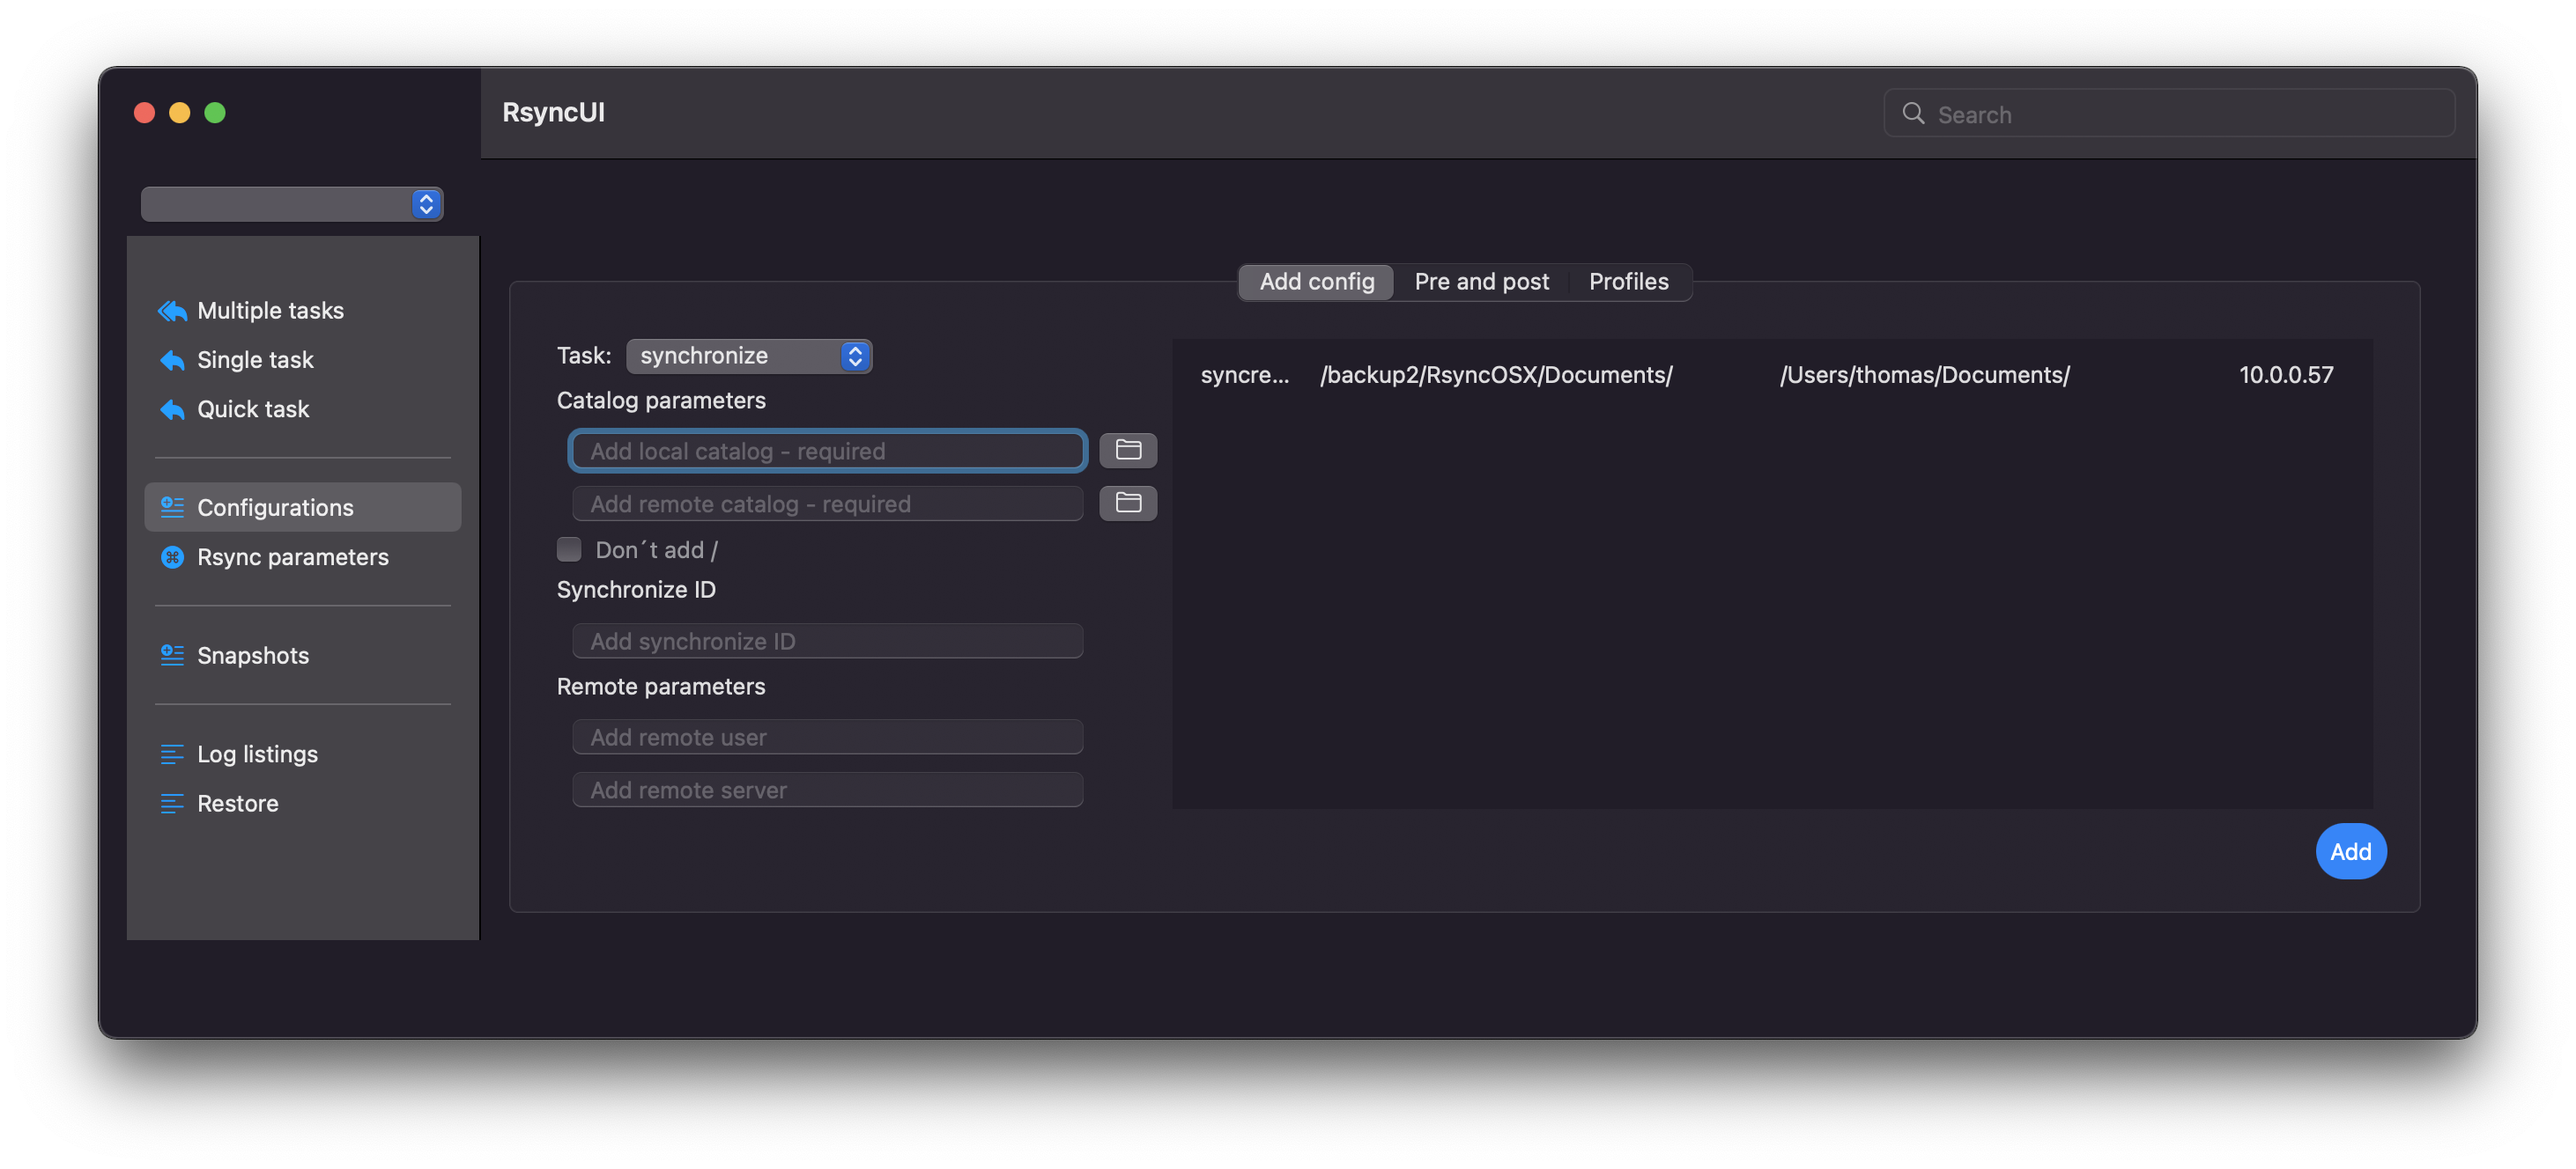
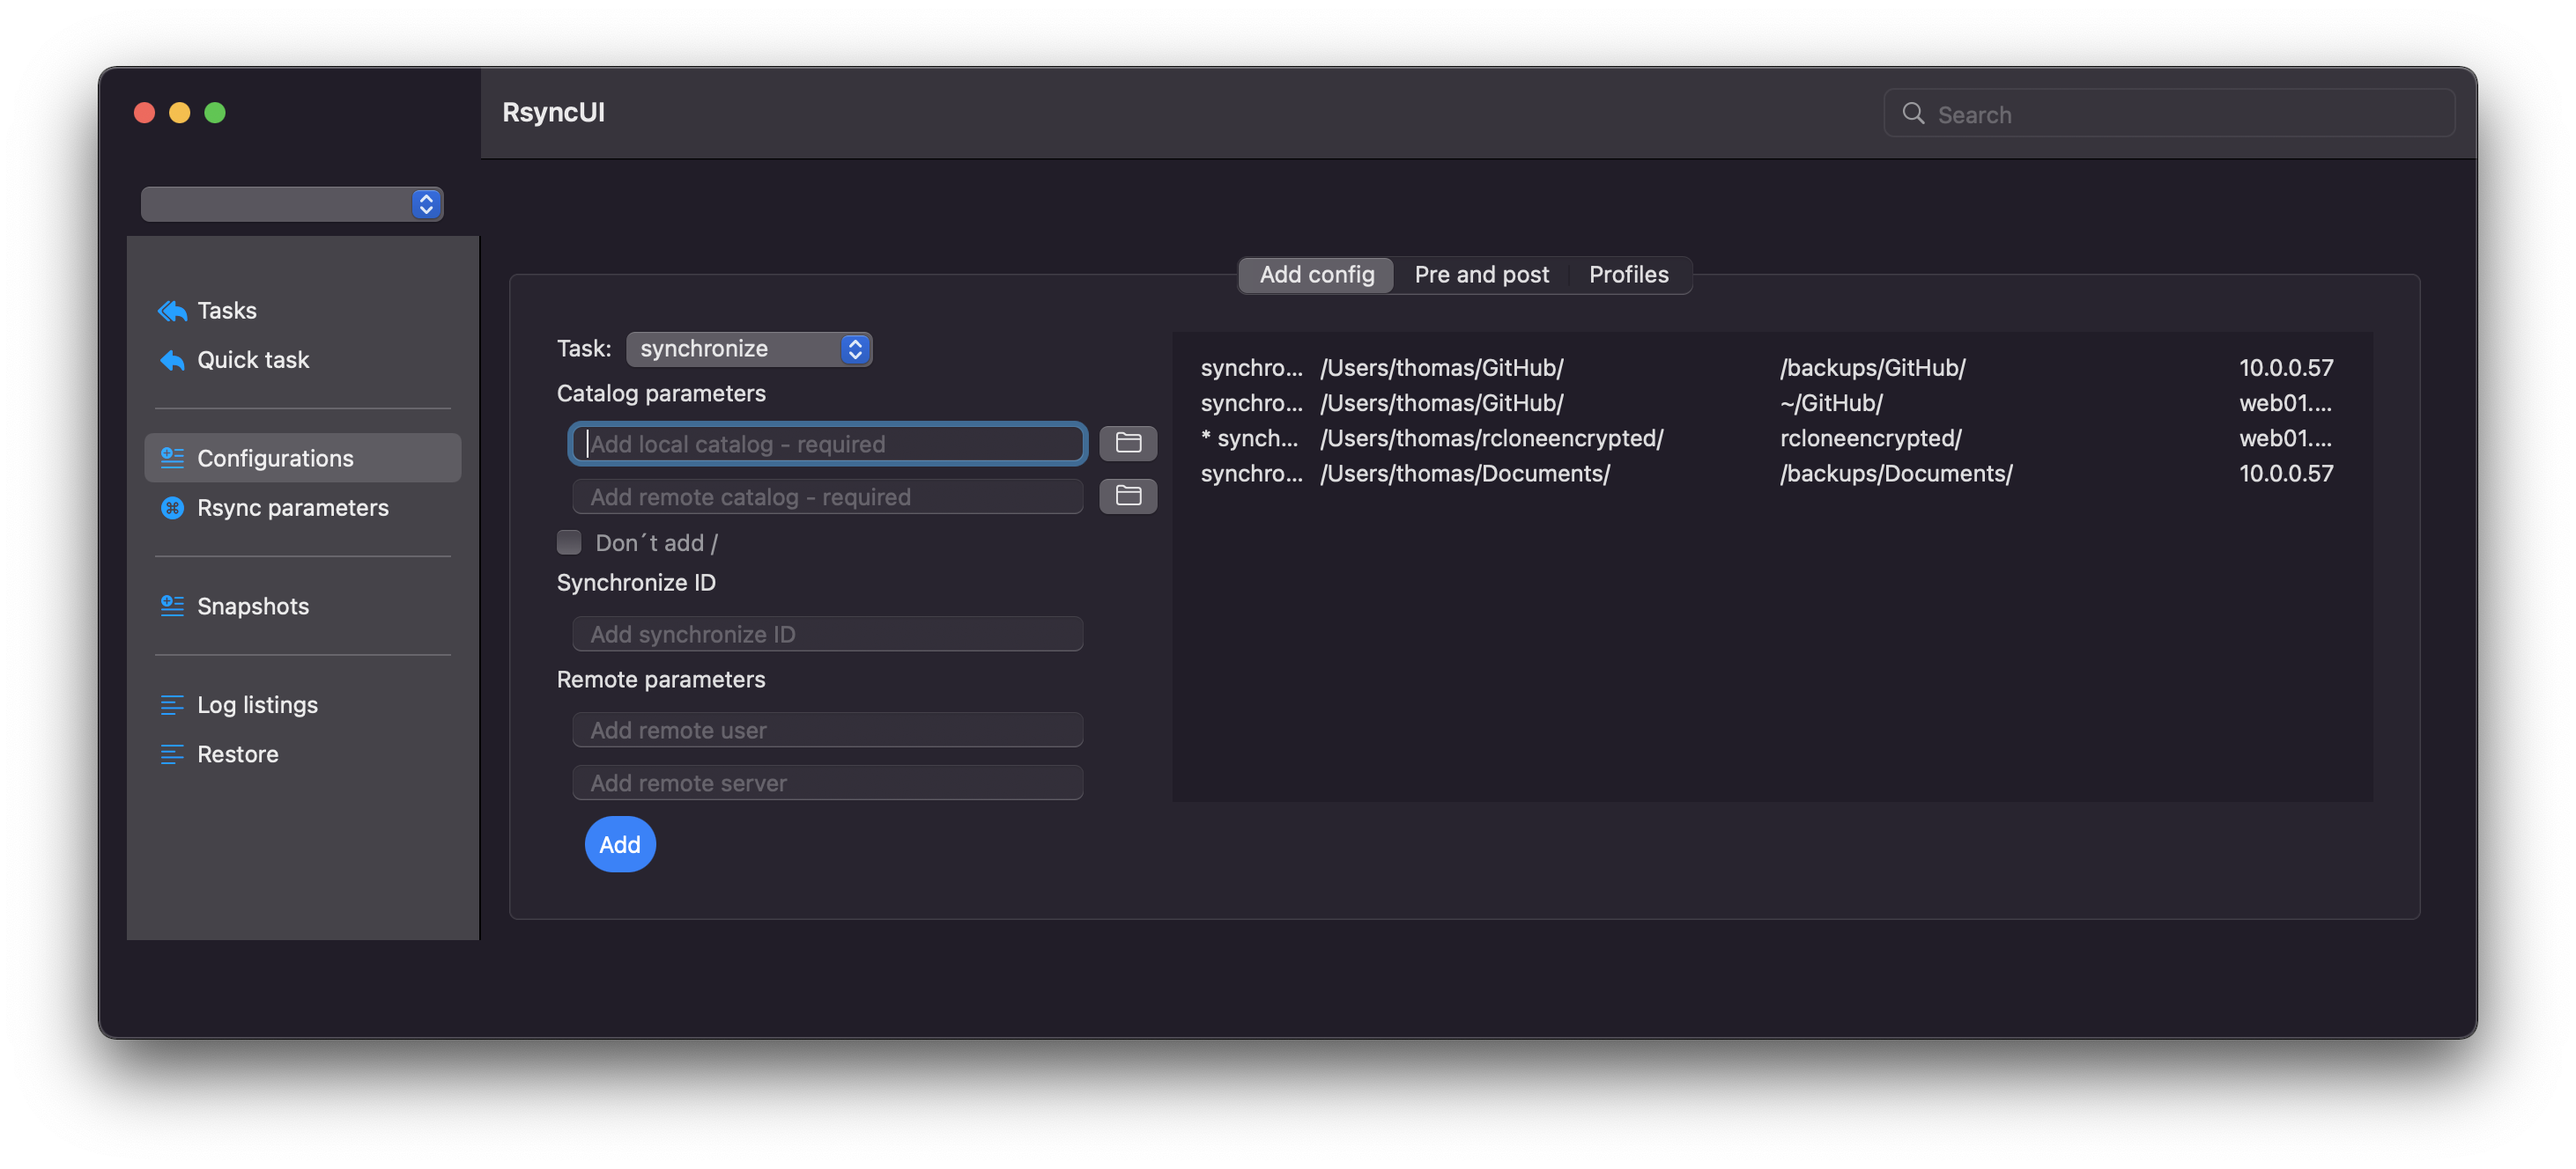
update

diff --git a/content/post/AddConfigurations.md b/content/post/AddConfigurations.md
@@ -1,47 +1,49 @@
 +++
 author = "Thomas Evensen"
 date = "2021-03-10"
-title =  "Add and update configurations"
+title =  "Add and update tasks"
 description = "How to enter synchronize tasks into RsyncUI."
 tags = ["add configurations"]
 # categories = ["configurations"]
 lastmod = "2021-03-25"
 +++
-A configuration require minimum a **local catalog** and a **remote catalog**. After entering information about a configuration select the `Add` button to add it to RsyncUI. Continue adding new configurations until completed and configurations are saved to permanent storage after each entry. Select local catalog either by drag and drop or by enter text directly. For remote catalogs only drag and drop for local attached volumes. For remote server catalogs enter by text only.
+A task require minimum a **local catalog** and a **remote catalog**. After entering information about a task, select the `Add` button to add it to RsyncUI. Continue adding new tasks until completed and tasks are saved to permanent storage after each entry.
 
 {{< image src="/images/add/add.png" alt="" position="center" style="border-radius: 8px;" >}}
 
-## The buttons:
+After adding or changed a task please verify the result by executing an estimation run.
 
 The following actions within this view:
 
 - `Add` - will add a new configuration
 - `Update` - the `Add` button will change when a configuration is selected
 
+Just press the Enter key will automatically enter a new task. The Enter key will advance to next field. If the local catalog and remote catalog are local attached catalogs the Enter key will automatically add it after the Synchronize ID.
+
 ### Task
 
 - synchronize, which is default and keeps source and destination in sync
 - [snapshots](/post/snapshots/), save changes and deletes ahead of a synchronize
 - syncremote, remote is source, synchronize a remote source to a local volume
-- **Dont´t add**: `/`
+- *Dont´t add `/`
   - by default a trailing `/` is added to both source and destination
 
 ### Catalog parameters
-- **Local catalog**: required field
-- **Remote catalog**: required field
+- Local catalog: required field
+- Remote catalog: required field
   - the backup catalog might also be a local catalog on a local attached disk
 
+### Synchronize ID
+
+- Synchronize ID:
+  - informal tag for the task
 
 ### Remote parameters
-- **Remote username**:
+- Remote username:
   - username for login to remote server
-- **Remote server**:
+- Remote server:
   - either server name or IP-address for remote server
-- **Backup ID**:
-  - informal tag for the configuration
 
-### Task
-- **Type**: there are three types of tasks, `synchronize` which is default, `snapshots` or `syncremote`.
 
 ## Add configurations
 

diff --git a/content/post/RsyncUIdocs.md b/content/post/RsyncUIdocs.md
@@ -12,9 +12,18 @@ RsyncUI is a SwiftUI based GUI on top of the command line utility `rsync` which 
 - RsyncUI is built with support for **macOS Monterey**
 - the latest [release for download](https://github.com/rsyncOSX/RsyncUI/releases)
 
-The first time RsyncUI is started the Welcome message is presented. Please read the info and when ready to add tasks select the Dismiss button which opens the [add a configuration](/post/addconfigurations/) view. Before commencing use of RsyncOSX there are a few [important words to read](/post/important/).
+The first time RsyncUI is started the Welcome message is presented. Please read the info and when ready to add tasks select the Dismiss button which opens the [add a task](/post/addconfigurations/).
+
+Before commencing use of RsyncOSX there are a few [important words to read](/post/important/).
 
 {{< image src="/images/start/firsttask.png" alt="" position="center" style="border-radius: 8px;" >}}
+
+## Synchronize data
+
+After [adding a task](/post/addconfigurations/) you are ready to execute your first synchronize data task.
+
+- execute a synchronize data [task](/post/tasks/)
+- execute a [quick task](/post/quicktask/)
 
 ## The changelog
 
@@ -26,13 +35,6 @@ RsyncUI can be used in **parallel with RsyncOSX**. Default catalog for storing c
 $HOME/.rsyncosx/macserialnumber/
 ```
 RsyncUI and RsyncOSX **does not** share the user settings, e.g like enabling version 3.x of rsync has to be set in both apps.
-
-## Synchronize data
-
-How to synchronize data or just execute a quick task.
-
-- execute a synchronize data [task](/post/tasks/)
-- execute a [quick task](/post/quicktask/)
 
 ## How to setup remote servers
 
